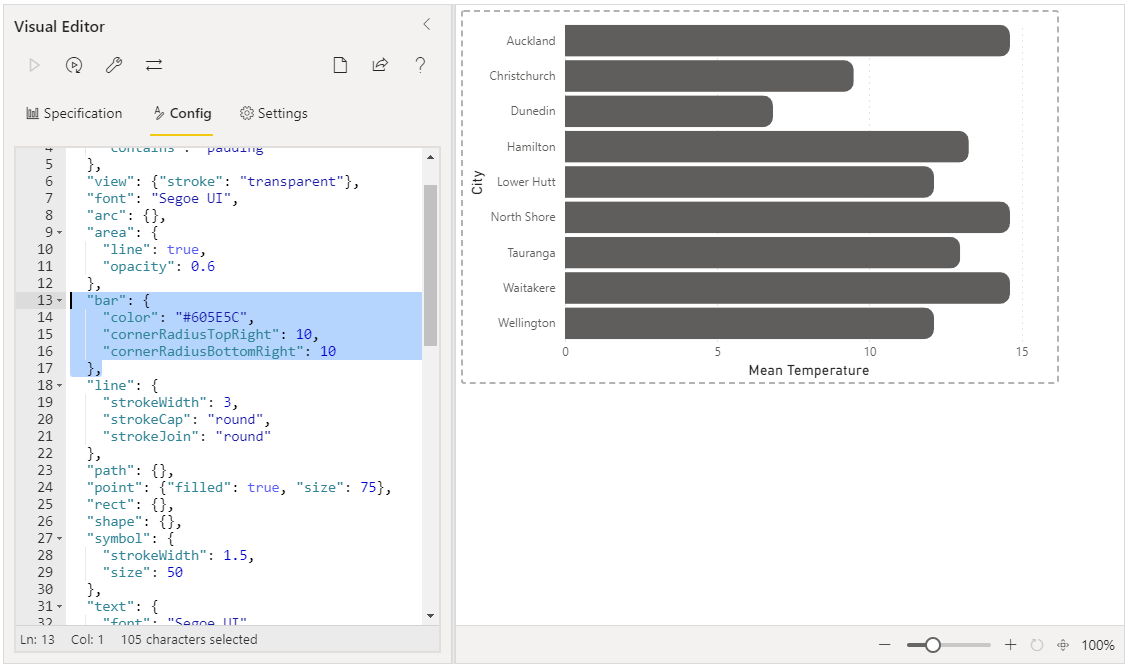
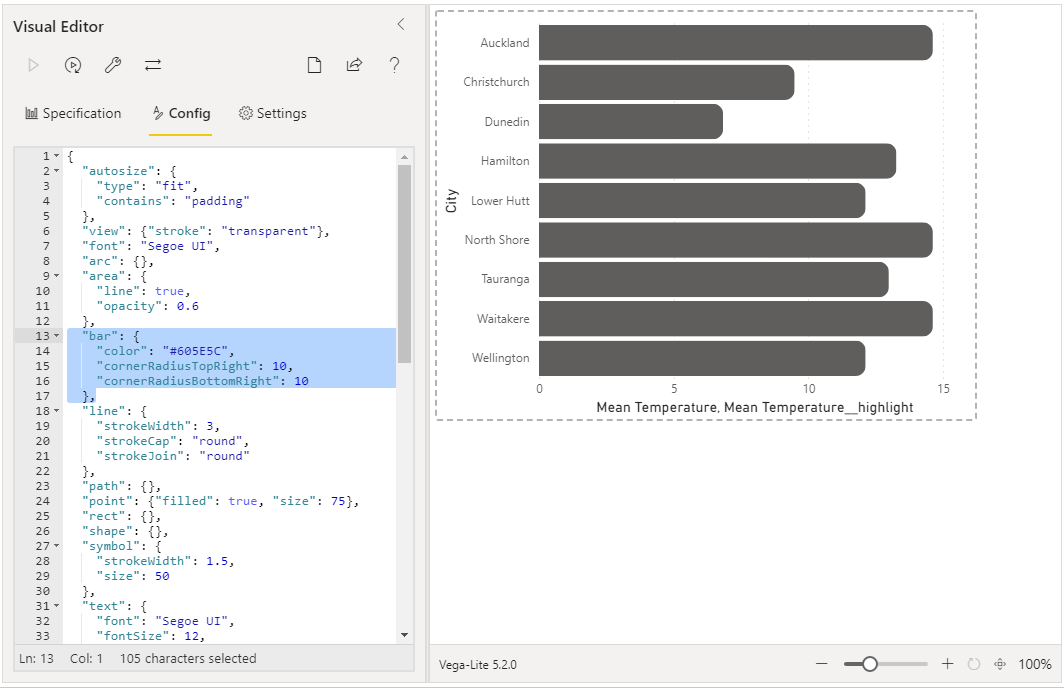
Updating simple worked example for 1.2

diff --git a/docs/getting-started/simple-worked-example.md b/docs/getting-started/simple-worked-example.md
@@ -110,31 +110,54 @@ Clicking on this will show the visual specification in the Visual Editor with ou
 
 In our editor's **Specification** tab, we'll now have the following [Vega-Lite JSON specification](http://vega.github.io/vega-lite/docs/spec.html):
 
-```json title=Generated Specification
+```json title="Generated Specification"
 {
   "data": { "name": "dataset" },
-  "mark": {
-    "type": "bar",
-    "tooltip": true
-  },
+  "layer": [
+    {
+      "mark": {
+        "type": "bar",
+        "opacity": 0.3,
+        "tooltip": true
+      },
+      "encoding": {
+        "x": {
+          "field": "Mean Temperature"
+        }
+      }
+    },
+    {
+      "mark": {
+        "type": "bar",
+        "tooltip": true
+      },
+      "encoding": {
+        "x": {
+          "field": "Mean Temperature__highlight"
+        },
+        "opacity": {
+          "condition": {
+            "test": {
+              "field": "__selected__",
+              "equal": "off"
+            },
+            "value": 0
+          },
+          "value": 1
+        }
+      }
+    }
+  ],
   "encoding": {
     "y": {
       "field": "City",
       "type": "nominal"
     },
     "x": {
-      "field": "Mean Temperature",
-      "type": "quantitative"
-    },
-    "opacity": {
-      "condition": {
-        "test": {
-          "field": "__selected__",
-          "equal": "off"
-        },
-        "value": 0.3
-      },
-      "value": 1
+      "type": "quantitative",
+      "axis": {
+        "title": "Mean Temperature"
+      }
     }
   }
 }
@@ -145,13 +168,23 @@ This breaks down as follows:
 - There's a `data` object, which has a mapping of `"dataset"` (line 2).
   - This is required for the specification, instructs that our visual's dataset should be used and should be left as-is.
   - Refer to the [Dataset](dataset) page for more details on how this works.
-- We're [using a `bar` mark](http://vega.github.io/vega-lite/docs/bar.html) for our data point and we're displaying a `tooltip` for this mark (lines 3-6).
-- The [encoding for the visual](http://vega.github.io/vega-lite/docs/encoding.html) (lines 7-26) maps our data as follows:
-  - `City` is mapped to the y-axis and is a nominal/categorical field (lines 8-11).
-  - `Mean Temperature` is mapped to the x-axis and is a quantitative/linear field (lines 12-15).
-  - The opacity of our mark is linked to a special field called `__selected__`, which manages cross-filtering for us (lines 16-25). This is explained further below, so just bear with us for now.
+- We have a [`layer`](http://vega.github.io/vega-lite/docs/layer.html) view, which allows us to superimpose chart elements (lines 3-37). Within this layer, we have:
 
-This is a simple [single view specification](http://vega.github.io/vega-lite/docs/spec.html#single), so once you're comfortable with the syntax, you should be able to move onto [layered](https://vega.github.io/vega-lite/docs/layer.html), [concatenated](https://vega.github.io/vega-lite/docs/concat.html) or [faceted](https://vega.github.io/vega-lite/docs/facet.html) views in no time 😉
+  - One [`bar` mark](http://vega.github.io/vega-lite/docs/bar.html) for each data point (lines 4-15).
+
+    - The width (`x` encoding channel) of this bar is bound to our `Mean Temperature` measure.
+    - We're displaying a `tooltip` for this mark (lines 4-15).
+    - This is used to display orginal values in the event of a cross-highlight from another visual (more on this below)
+
+  - One `bar` mark for each data point that is bound to our `Mean Temperature` measure's cross-highlight values in the `x` encoding channel (lines 16-36).
+
+    - The `opacity` of our mark (how 'solid' the color appears) is linked to a special field called `__selected__`, which manages cross-filtering for us (lines 16-25). This is also explained further below, so just bear with us for now.
+
+- The [encoding for the visual's top-level](http://vega.github.io/vega-lite/docs/encoding.html) (lines 38-49) maps our data as follows:
+  - `City` is mapped to the y-axis and is a nominal/categorical field (lines 39-42).
+  - Our x-axis is a quantitative/linear (lines 43-48).
+
+As noted above, this is a [layered](https://vega.github.io/vega-lite/docs/layer.html) view, so that we can try and show you how to make your visual work with Power BI's interactivity features in as simple a way as possible. Vega-Lite also has [single](http://vega.github.io/vega-lite/docs/spec.html#single), [concatenated](https://vega.github.io/vega-lite/docs/concat.html) or [faceted](https://vega.github.io/vega-lite/docs/facet.html) views as well, wo it's worht checking those out (with their associated examples) to learn more.
 
 We also have some other stuff going on in the editor's **Config** tab, thanks to our template...
 
@@ -159,7 +192,7 @@ We also have some other stuff going on in the editor's **Config** tab, thanks to
 
 In our editor's **Config** tab, we'll have the following [Vega-Lite JSON configuration](http://vega.github.io/vega-lite/docs/config.html). There's a lot going on here, and the intention is to provide you with a fleshed-out set of properties so that you can see how things can look with a fleshed-out set of properties. You don't need to worry too much about this for the moment.
 
-```json title=Generated Config
+```json title="Generated Config"
 {
   "autosize": {
     "type": "fit",
@@ -257,30 +290,80 @@ If we were to set up a tooltip page that included one of the columns from our vi
 Note that report page tooltips will only work if your data point hasn't been transformed or mutated from the row context passed-into your visual's dataset. In the cases where data points cannot be reconciled back to the data model, the visual will display a default tooltip instead. Please refer to the [Interactivity Features](interactivity-overview) or [Tooltips](interactivity-tooltips) pages for further details.
 :::
 
+## Cross-Highlighting
+
+Creators often have their visuals enabled for cross-highlighting, which means that if another visual is clicked, then other visuals will adjust their display to show the highlighted values in context with their original ones.
+
+- In our visual, we show the original values with our first mark.
+
+  ```json title="Cross-Highlighting: first (less opaque) mark"
+  {
+    "mark": {
+      "type": "bar",
+      "opacity": 0.3,
+      "tooltip": true
+    },
+    "encoding": {
+      "x": {
+        "field": "Mean Temperature"
+      }
+    }
+  }
+  ```
+
+  This is 30% opaque and is displayed underneath the second mark...
+
+- ...and the second mark is used to show the cross-highlight values.
+
+  ```json title="Cross-Highlighting: second (solid) mark"
+  {
+    "mark": {
+      "type": "bar",
+      "tooltip": true
+    },
+    "encoding": {
+      "x": {
+        "field": "Mean Temperature__highlight"
+      },
+      ...
+    }
+  }
+  ```
+
+  If there is no cross-highlight applied, the data point values are the same as the original, and this obscures the mark behind it. This encoding uses the same measure, but with a `__highlight` suffix, which Deneb uses to supply the value we need to show this. The rest of the `encoding` section has been omitted as it's used for the next section.
+
+:::caution Cross-Highlight Takes A Bit Of Work
+It normally might be a bit much for a simple walkthrough, but it's likely that you're heare because you want to build your own visual that looks and feels at home in Power BI. Cross-highlighting is a part of this journey, so we want to give you a simple way in to this. You can read in more detail in the [Interactivity Features](interactivity-overview) or [Cross-Highlighting](interactivity-highlight) pages for further details.
+:::
+
 ## Cross-Filtering
 
 Many Power BI visuals allow you to cross-filter others by clicking (or Ctrl-clicking data points). We can also do this with Deneb, but there are elements of user experience that we need to consider: most Power BI visuals will dim or fade the un-selected data points so that our users understand what is happening between our visual and others.
 
-This is normally opt-in, but our template already has a simple version of this set-up already. The relevant section of our specification is on lines 16 through 2*5*:
+This is normally opt-in, but our template already has a simple version of this set-up already. The relevant section of our specification is on lines 25 through 35:
 
-```json
+```json title="Cross-Filtering: second mark encoding"
 {
-  "opacity": {
-    "condition": {
-      "test": {
-        "field": "__selected__",
-        "equal": "off"
+  "mark": { ... },
+  "encoding": {
+    ...
+    "opacity": {
+      "condition": {
+        "test": {
+          "field": "__selected__",
+          "equal": "off"
+        },
+        "value": 0
       },
-      "value": 0.3
-    },
-    "value": 1
+      "value": 1
+    }
   }
 }
 ```
 
-Deneb uses a special field called `__selected__` to track the status of each row of our dataset. We can use this in our `encoding`, along with a `test` to set the `opacity` value of our mark to `0.3` (or 30%) if it is not one of those that we've clicked (or Ctrl-clicked) on, e.g.:
+Deneb uses a special field called `__selected__` to track the status of each row of our dataset. We can use this in our `encoding`, along with a `test` to set the `opacity` value of our mark to `0` (or hidden) if it is not one of those that we've clicked (or Ctrl-clicked) on, e.g.:
 
-![The opacity encoding changes based on whether a mark has been flagged as selected or not.](./img/cross-filtering-opacity.png)
+![cross-filtering-opacity.png](./img/cross-filtering-opacity.png "The opacity encoding changes based on whether a mark has been flagged as selected or not.")
 
 :::caution Context _Really_ is Key
 Note that much like report page tooltips, Cross-Filtering will only work well if your data point hasn't been transformed or mutated from the row context passed-into your visual's dataset. In the cases where data points cannot be reconciled back to the data model, this may not work as intended. You also need to manage the visual effects of your selected and un-selected marks. Please refer to the [Interactivity Features](interactivity-overview) or [Cross-Filtering (Selection)](interactivity-selection) pages for further details.
